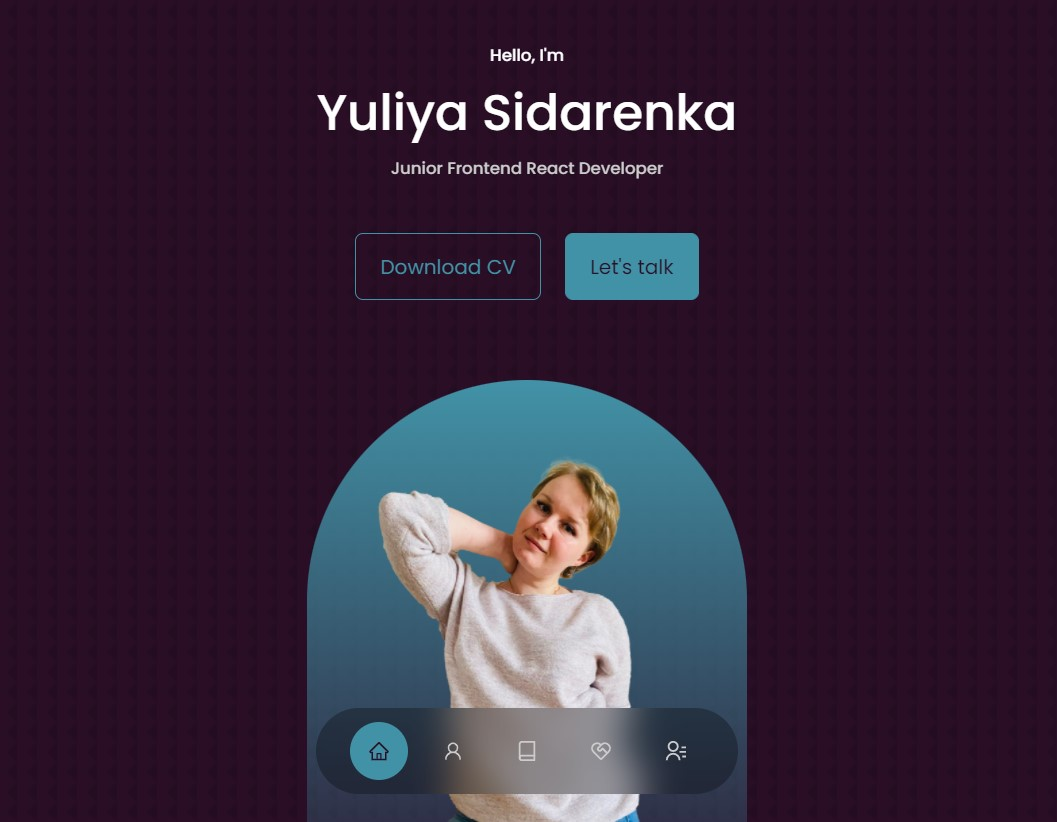
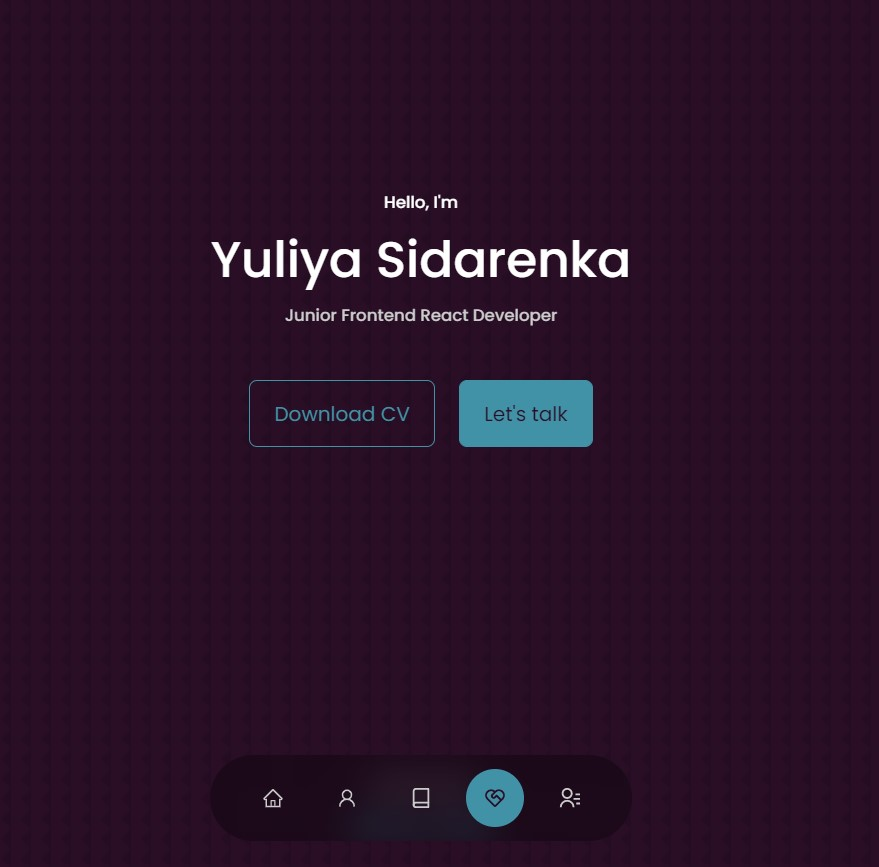
deleted about img, add Preloader.jsx

diff --git a/src/components/Header/Header.css b/src/components/Header/Header.css
@@ -1,6 +1,6 @@
 header {
-    height: 100vh;
-    padding-top: 5rem;
+    height: 70vh;
+    padding-top: 10rem;
     overflow: hidden;
 }
 
@@ -38,20 +38,6 @@ header {
     background: var(--color-primary);
 }
 
-/* === ME === */
-.me {
-    background: linear-gradient(var(--color-primary), transparent);
-    width: 22rem;
-    height: 30rem;
-    position: absolute;
-    left: calc(50% - 11rem);
-    margin-top: 4rem;
-    border-radius: 12rem 12rem 0 0;
-    overflow: hidden;
-    padding: 3rem 1.5rem 1.5rem 1.5rem;
-    visibility: visible;
-}
-
 /* === Scroll down === */
 .scroll__down {
     position: absolute;
@@ -67,14 +53,26 @@ header {
     header {
         height: 100vh;
     }
+    .cta {
+        margin-top: 3.5rem;
+    }
 }
 
 /* === Media queries (small devices) === */
 @media screen and (max-width: 600px) {
     header {
-        height: 100vh;
+        height: 60vh;
     }
-    .header__socials, .scroll__down {
+    .header__socials {
+        flex-direction: row;
+        left: 50%;
+        transform: translateX(-50%);
+    }
+    .header__socials::after {
+        content: '';
+        background: transparent;
+    }
+    .scroll__down {
         display: none;
     }
 }

diff --git a/src/App.js b/src/App.js
@@ -1,4 +1,4 @@
-import React from "react";
+import React, {useEffect, useState} from "react";
 import Header from "./components/Header/Header";
 import Nav from "./components/Nav/Nav";
 import About from "./components/About/About";
@@ -7,19 +7,28 @@ import Portfolio from "./components/Portfolio/Portfolio";
 import Contact from "./components/Contact/Contact";
 import Footer from "./components/Footer/Footer";
 import SoftSkills from "./components/SoftSkills/SoftSkills";
+import Preloader from "./components/Preloader";
 
 const App = () => {
+    const [init, setInit] = useState(true);
+
+    useEffect(() => {
+        setInit(false)
+    }, []);
+
+    if (init) return <Preloader/>
+
     return (
-        <>
-            <Header/>
-            <Nav/>
-            <About/>
-            <Experience/>
-            <SoftSkills/>
-            <Portfolio/>
-            <Contact/>
-            <Footer/>
-        </>
+         <>
+                <Header/>
+                <Nav/>
+                <About/>
+                <Experience/>
+                <SoftSkills/>
+                <Portfolio/>
+                <Contact/>
+                <Footer/>
+            </>
     );
 }
 

diff --git a/src/components/Header/Header.jsx b/src/components/Header/Header.jsx
@@ -1,7 +1,6 @@
 import React from 'react';
 import "./Header.css"
 import CTA from "./cta";
-import ME from "../../assets/me-yuliya-min.png"
 import HeaderSocials from "./HeaderSocials";
 
 const Header = () => {
@@ -13,9 +12,6 @@ const Header = () => {
                 <h5 className="text-light">Junior Frontend React Developer</h5>
                 <CTA/>
                 <HeaderSocials/>
-                <div className="me">
-                    <img src={ME} alt="me"/>
-                </div>
                 <a href="#contact" className={"scroll__down"}>Scroll down</a>
             </div>
         </header>

diff --git a/src/components/Preloader.jsx b/src/components/Preloader.jsx
@@ -1,0 +1,9 @@
+import preloader from "../assets/Glowing ring.gif";
+import React from "react";
+
+let Preloader = () => {
+    return <div style={ {display: "flex", justifyContent: "center", height: "500px", margin: "50px"} }>
+        <img src={preloader} alt={'Wait a minute..'}/>
+    </div>
+};
+export default Preloader;
